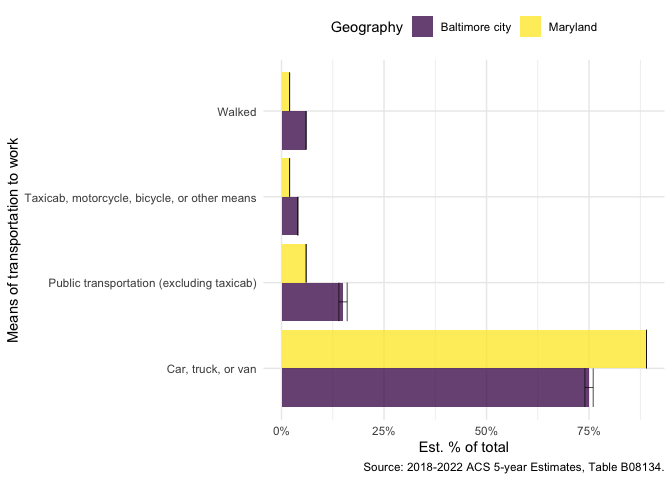
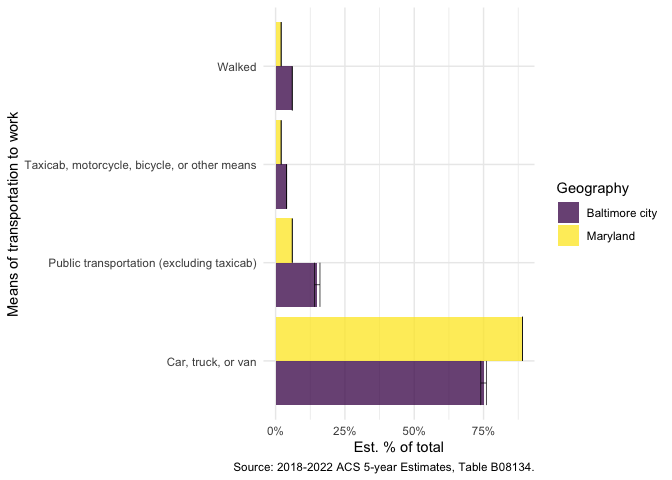
Update README + codemeta

diff --git a/README.md b/README.md
@@ -80,13 +80,13 @@ commute_tbl <- gt_acs(
 as_raw_html(commute_tbl)
 ```
 
-<div id="alqwvlqdlb" style="padding-left:0px;padding-right:0px;padding-top:10px;padding-bottom:10px;overflow-x:auto;overflow-y:auto;width:auto;height:auto;">
+<div id="ynentlqwka" style="padding-left:0px;padding-right:0px;padding-top:10px;padding-bottom:10px;overflow-x:auto;overflow-y:auto;width:auto;height:auto;">
   &#10;  <table class="gt_table" data-quarto-disable-processing="false" data-quarto-bootstrap="false" style="-webkit-font-smoothing: antialiased; -moz-osx-font-smoothing: grayscale; font-family: system-ui, 'Segoe UI', Roboto, Helvetica, Arial, sans-serif, 'Apple Color Emoji', 'Segoe UI Emoji', 'Segoe UI Symbol', 'Noto Color Emoji'; display: table; border-collapse: collapse; line-height: normal; margin-left: auto; margin-right: auto; color: #333333; font-size: 16px; font-weight: normal; font-style: normal; background-color: #FFFFFF; width: auto; border-top-style: solid; border-top-width: 2px; border-top-color: #A8A8A8; border-right-style: none; border-right-width: 2px; border-right-color: #D3D3D3; border-bottom-style: solid; border-bottom-width: 2px; border-bottom-color: #A8A8A8; border-left-style: none; border-left-width: 2px; border-left-color: #D3D3D3;" bgcolor="#FFFFFF">
   <thead style="border-style: none;">
-    &#10;    <tr class="gt_col_headings" style="border-style: none; border-top-style: solid; border-top-width: 2px; border-top-color: #D3D3D3; border-bottom-style: solid; border-bottom-width: 2px; border-bottom-color: #D3D3D3; border-left-style: none; border-left-width: 1px; border-left-color: #D3D3D3; border-right-style: none; border-right-width: 1px; border-right-color: #D3D3D3;">
+    <tr class="gt_col_headings" style="border-style: none; border-top-style: solid; border-top-width: 2px; border-top-color: #D3D3D3; border-bottom-style: solid; border-bottom-width: 2px; border-bottom-color: #D3D3D3; border-left-style: none; border-left-width: 1px; border-left-color: #D3D3D3; border-right-style: none; border-right-width: 1px; border-right-color: #D3D3D3;">
       <th class="gt_col_heading gt_columns_bottom_border gt_left" rowspan="1" colspan="1" scope="col" id="Commute time" style="border-style: none; color: #333333; background-color: #FFFFFF; font-size: 100%; font-weight: normal; text-transform: inherit; border-left-style: none; border-left-width: 1px; border-left-color: #D3D3D3; border-right-style: none; border-right-width: 1px; border-right-color: #D3D3D3; vertical-align: bottom; padding-top: 5px; padding-bottom: 6px; padding-left: 5px; padding-right: 5px; overflow-x: hidden; text-align: left;" bgcolor="#FFFFFF" valign="bottom" align="left">Commute time</th>
-      <th class="gt_col_heading gt_columns_bottom_border gt_right" rowspan="1" colspan="1" scope="col" id="Est." style="border-style: none; color: #333333; background-color: #FFFFFF; font-size: 100%; font-weight: normal; text-transform: inherit; border-left-style: none; border-left-width: 1px; border-left-color: #D3D3D3; border-right-style: none; border-right-width: 1px; border-right-color: #D3D3D3; vertical-align: bottom; padding-top: 5px; padding-bottom: 6px; padding-left: 5px; padding-right: 5px; overflow-x: hidden; text-align: right; font-variant-numeric: tabular-nums;" bgcolor="#FFFFFF" valign="bottom" align="right">Est.</th>
       <th class="gt_col_heading gt_columns_bottom_border gt_right" rowspan="1" colspan="1" scope="col" id="% share" style="border-style: none; color: #333333; background-color: #FFFFFF; font-size: 100%; font-weight: normal; text-transform: inherit; border-left-style: none; border-left-width: 1px; border-left-color: #D3D3D3; border-right-style: none; border-right-width: 1px; border-right-color: #D3D3D3; vertical-align: bottom; padding-top: 5px; padding-bottom: 6px; padding-left: 5px; padding-right: 5px; overflow-x: hidden; text-align: right; font-variant-numeric: tabular-nums;" bgcolor="#FFFFFF" valign="bottom" align="right">% share</th>
+      <th class="gt_col_heading gt_columns_bottom_border gt_right" rowspan="1" colspan="1" scope="col" id="perc_estimate" style="border-style: none; color: #333333; background-color: #FFFFFF; font-size: 100%; font-weight: normal; text-transform: inherit; border-left-style: none; border-left-width: 1px; border-left-color: #D3D3D3; border-right-style: none; border-right-width: 1px; border-right-color: #D3D3D3; vertical-align: bottom; padding-top: 5px; padding-bottom: 6px; padding-left: 5px; padding-right: 5px; overflow-x: hidden; text-align: right; font-variant-numeric: tabular-nums;" bgcolor="#FFFFFF" valign="bottom" align="right">perc_estimate</th>
     </tr>
   </thead>
   <tbody class="gt_table_body" style="border-style: none; border-top-style: solid; border-top-width: 2px; border-top-color: #D3D3D3; border-bottom-style: solid; border-bottom-width: 2px; border-bottom-color: #D3D3D3;">
@@ -173,10 +173,10 @@ commute_tbl_compare <- gt_acs_compare(
 as_raw_html(commute_tbl_compare)
 ```
 
-<div id="tkfgqrqkym" style="padding-left:0px;padding-right:0px;padding-top:10px;padding-bottom:10px;overflow-x:auto;overflow-y:auto;width:auto;height:auto;">
+<div id="luyxztsdlq" style="padding-left:0px;padding-right:0px;padding-top:10px;padding-bottom:10px;overflow-x:auto;overflow-y:auto;width:auto;height:auto;">
   &#10;  <table class="gt_table" data-quarto-disable-processing="false" data-quarto-bootstrap="false" style="-webkit-font-smoothing: antialiased; -moz-osx-font-smoothing: grayscale; font-family: system-ui, 'Segoe UI', Roboto, Helvetica, Arial, sans-serif, 'Apple Color Emoji', 'Segoe UI Emoji', 'Segoe UI Symbol', 'Noto Color Emoji'; display: table; border-collapse: collapse; line-height: normal; margin-left: auto; margin-right: auto; color: #333333; font-size: 16px; font-weight: normal; font-style: normal; background-color: #FFFFFF; width: auto; border-top-style: solid; border-top-width: 2px; border-top-color: #A8A8A8; border-right-style: none; border-right-width: 2px; border-right-color: #D3D3D3; border-bottom-style: solid; border-bottom-width: 2px; border-bottom-color: #A8A8A8; border-left-style: none; border-left-width: 2px; border-left-color: #D3D3D3;" bgcolor="#FFFFFF">
   <thead style="border-style: none;">
-    &#10;    <tr class="gt_col_headings gt_spanner_row" style="border-style: none; border-top-style: solid; border-top-width: 2px; border-top-color: #D3D3D3; border-bottom-width: 2px; border-bottom-color: #D3D3D3; border-left-style: none; border-left-width: 1px; border-left-color: #D3D3D3; border-right-style: none; border-right-width: 1px; border-right-color: #D3D3D3; border-bottom-style: hidden;">
+    <tr class="gt_col_headings gt_spanner_row" style="border-style: none; border-top-style: solid; border-top-width: 2px; border-top-color: #D3D3D3; border-bottom-width: 2px; border-bottom-color: #D3D3D3; border-left-style: none; border-left-width: 1px; border-left-color: #D3D3D3; border-right-style: none; border-right-width: 1px; border-right-color: #D3D3D3; border-bottom-style: hidden;">
       <th class="gt_col_heading gt_columns_bottom_border gt_left" rowspan="2" colspan="1" scope="col" id="Commute time" style="border-style: none; color: #333333; background-color: #FFFFFF; font-size: 100%; font-weight: normal; text-transform: inherit; border-left-style: none; border-left-width: 1px; border-left-color: #D3D3D3; border-right-style: none; border-right-width: 1px; border-right-color: #D3D3D3; vertical-align: bottom; padding-top: 5px; padding-bottom: 6px; padding-left: 5px; padding-right: 5px; overflow-x: hidden; text-align: left;" bgcolor="#FFFFFF" valign="bottom" align="left">Commute time</th>
       <th class="gt_center gt_columns_top_border gt_column_spanner_outer" rowspan="1" colspan="2" scope="colgroup" id="Baltimore city, Maryland" style="border-style: none; color: #333333; background-color: #FFFFFF; font-size: 100%; font-weight: normal; text-transform: inherit; padding-top: 0; padding-bottom: 0; padding-left: 4px; padding-right: 4px; text-align: center;" bgcolor="#FFFFFF" align="center">
         <span class="gt_column_spanner" style="border-bottom-style: solid; border-bottom-width: 2px; border-bottom-color: #D3D3D3; vertical-align: bottom; padding-top: 5px; padding-bottom: 5px; overflow-x: hidden; display: inline-block; width: 100%;">Baltimore city, Maryland</span>
@@ -261,10 +261,10 @@ commute_tbl_compare_vars <- acs_data |>
 as_raw_html(commute_tbl_compare_vars)
 ```
 
-<div id="wczqjampse" style="padding-left:0px;padding-right:0px;padding-top:10px;padding-bottom:10px;overflow-x:auto;overflow-y:auto;width:auto;height:auto;">
+<div id="vzivpreunr" style="padding-left:0px;padding-right:0px;padding-top:10px;padding-bottom:10px;overflow-x:auto;overflow-y:auto;width:auto;height:auto;">
   &#10;  <table class="gt_table" data-quarto-disable-processing="false" data-quarto-bootstrap="false" style="-webkit-font-smoothing: antialiased; -moz-osx-font-smoothing: grayscale; font-family: system-ui, 'Segoe UI', Roboto, Helvetica, Arial, sans-serif, 'Apple Color Emoji', 'Segoe UI Emoji', 'Segoe UI Symbol', 'Noto Color Emoji'; display: table; border-collapse: collapse; line-height: normal; margin-left: auto; margin-right: auto; color: #333333; font-size: 16px; font-weight: normal; font-style: normal; background-color: #FFFFFF; width: auto; border-top-style: solid; border-top-width: 2px; border-top-color: #A8A8A8; border-right-style: none; border-right-width: 2px; border-right-color: #D3D3D3; border-bottom-style: solid; border-bottom-width: 2px; border-bottom-color: #A8A8A8; border-left-style: none; border-left-width: 2px; border-left-color: #D3D3D3;" bgcolor="#FFFFFF">
   <thead style="border-style: none;">
-    &#10;    <tr class="gt_col_headings" style="border-style: none; border-top-style: solid; border-top-width: 2px; border-top-color: #D3D3D3; border-bottom-style: solid; border-bottom-width: 2px; border-bottom-color: #D3D3D3; border-left-style: none; border-left-width: 1px; border-left-color: #D3D3D3; border-right-style: none; border-right-width: 1px; border-right-color: #D3D3D3;">
+    <tr class="gt_col_headings" style="border-style: none; border-top-style: solid; border-top-width: 2px; border-top-color: #D3D3D3; border-bottom-style: solid; border-bottom-width: 2px; border-bottom-color: #D3D3D3; border-left-style: none; border-left-width: 1px; border-left-color: #D3D3D3; border-right-style: none; border-right-width: 1px; border-right-color: #D3D3D3;">
       <th class="gt_col_heading gt_columns_bottom_border gt_left" rowspan="1" colspan="1" scope="col" id="NAME" style="border-style: none; color: #333333; background-color: #FFFFFF; font-size: 100%; font-weight: normal; text-transform: inherit; border-left-style: none; border-left-width: 1px; border-left-color: #D3D3D3; border-right-style: none; border-right-width: 1px; border-right-color: #D3D3D3; vertical-align: bottom; padding-top: 5px; padding-bottom: 6px; padding-left: 5px; padding-right: 5px; overflow-x: hidden; text-align: left;" bgcolor="#FFFFFF" valign="bottom" align="left">NAME</th>
       <th class="gt_col_heading gt_columns_bottom_border gt_right" rowspan="1" colspan="1" scope="col" id="Car, truck, or van" style="border-style: none; color: #333333; background-color: #FFFFFF; font-size: 100%; font-weight: normal; text-transform: inherit; border-left-style: none; border-left-width: 1px; border-left-color: #D3D3D3; border-right-style: none; border-right-width: 1px; border-right-color: #D3D3D3; vertical-align: bottom; padding-top: 5px; padding-bottom: 6px; padding-left: 5px; padding-right: 5px; overflow-x: hidden; text-align: right; font-variant-numeric: tabular-nums;" bgcolor="#FFFFFF" valign="bottom" align="right">Car, truck, or van</th>
       <th class="gt_col_heading gt_columns_bottom_border gt_right" rowspan="1" colspan="1" scope="col" id="Public transportation (excluding taxicab)" style="border-style: none; color: #333333; background-color: #FFFFFF; font-size: 100%; font-weight: normal; text-transform: inherit; border-left-style: none; border-left-width: 1px; border-left-color: #D3D3D3; border-right-style: none; border-right-width: 1px; border-right-color: #D3D3D3; vertical-align: bottom; padding-top: 5px; padding-bottom: 6px; padding-left: 5px; padding-right: 5px; overflow-x: hidden; text-align: right; font-variant-numeric: tabular-nums;" bgcolor="#FFFFFF" valign="bottom" align="right">Public transportation (excluding taxicab)</th>
@@ -292,8 +292,9 @@ as_raw_html(commute_tbl_compare_vars)
   &#10;</table>
 </div>
 
-The package also includes several simple functions to support creating
-plots with the `{ggplot2}` package:
+The package also includes several functions to support creating plots
+with the `{ggplot2}` package including `geom_acs_col()` and
+`labs_acs_survey()`:
 
 ``` r
 plot_data <- acs_data |>
@@ -302,21 +303,29 @@ plot_data <- acs_data |>
   fmt_acs_county(state = "Maryland")
 
 plot_data |>
-  ggplot(aes(x = perc_estimate, y = column_title, fill = NAME)) +
-  geom_col(position = "dodge", alpha = 0.75) +
-  geom_acs_errorbarh(perc = TRUE, linewidth = 0.25, position = "dodge") +
-  scale_x_acs_percent() +
-  scale_fill_viridis_d() +
-  theme_minimal() +
-  theme(legend.position = "top") +
+  ggplot() +
+  geom_acs_col(
+    fill = "NAME",
+    position = "dodge",
+    color = NA,
+    alpha = 0.75,
+    perc = TRUE,
+    errorbar_params = list(position = "dodge", linewidth = 0.25)
+  ) +
+  scale_y_discrete("Means of transportation to work") +
+  scale_fill_viridis_d("Geography") +
   labs_acs_survey(
-    y = "Means of transportation to work",
-    fill = "Geography",
-    table = acs_data$table_id
-  )
+    .data = acs_data
+  ) +
+  theme_minimal()
 ```
 
 <img src="man/figures/README-unnamed-chunk-6-1.png" width="100%" />
+
+The `geom_acs_col()` function calls `geom_acs_errorbar()` (passing the
+`errorbar_params` argument as additional parameters) and `scale_x_acs()`
+or `scale_y_acs()` (depending on whether `orientation = "y"` or the
+default value of `NA`).
 
 For more information on working with Census data in R [read the book
 *Analyzing US Census Data: Methods, Maps, and Models in
